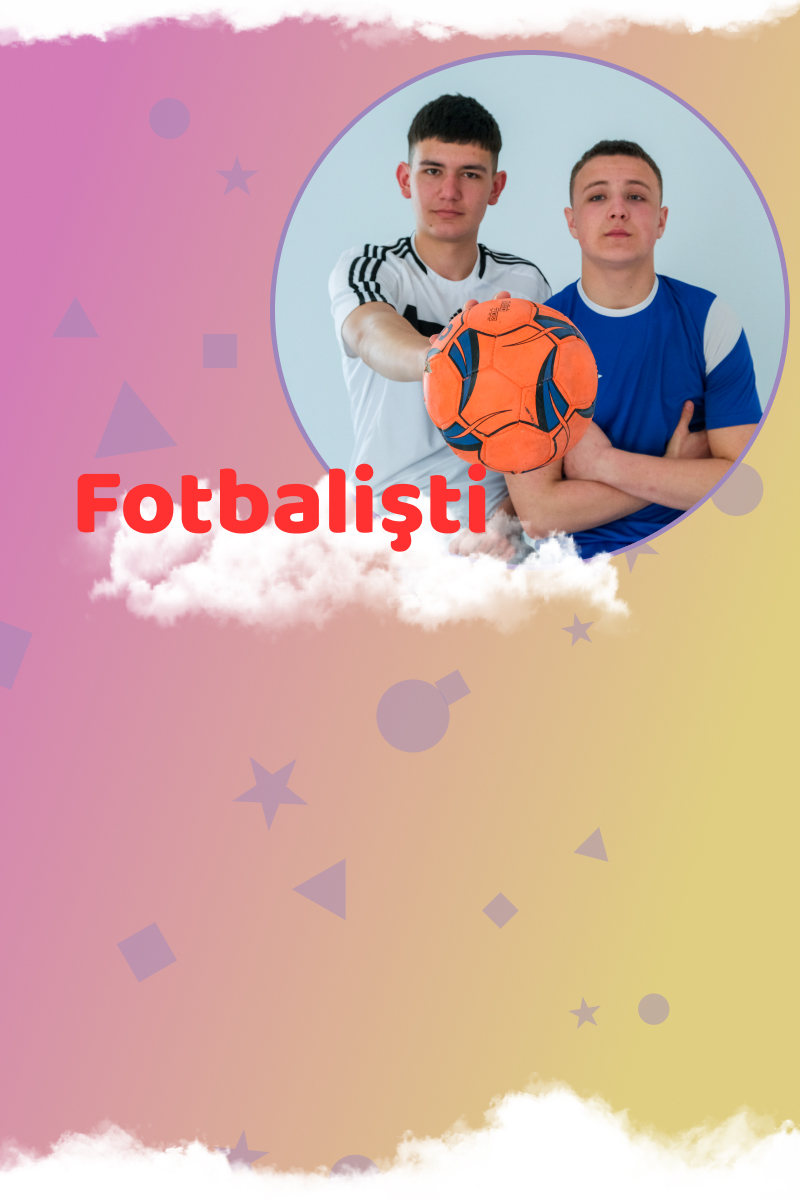
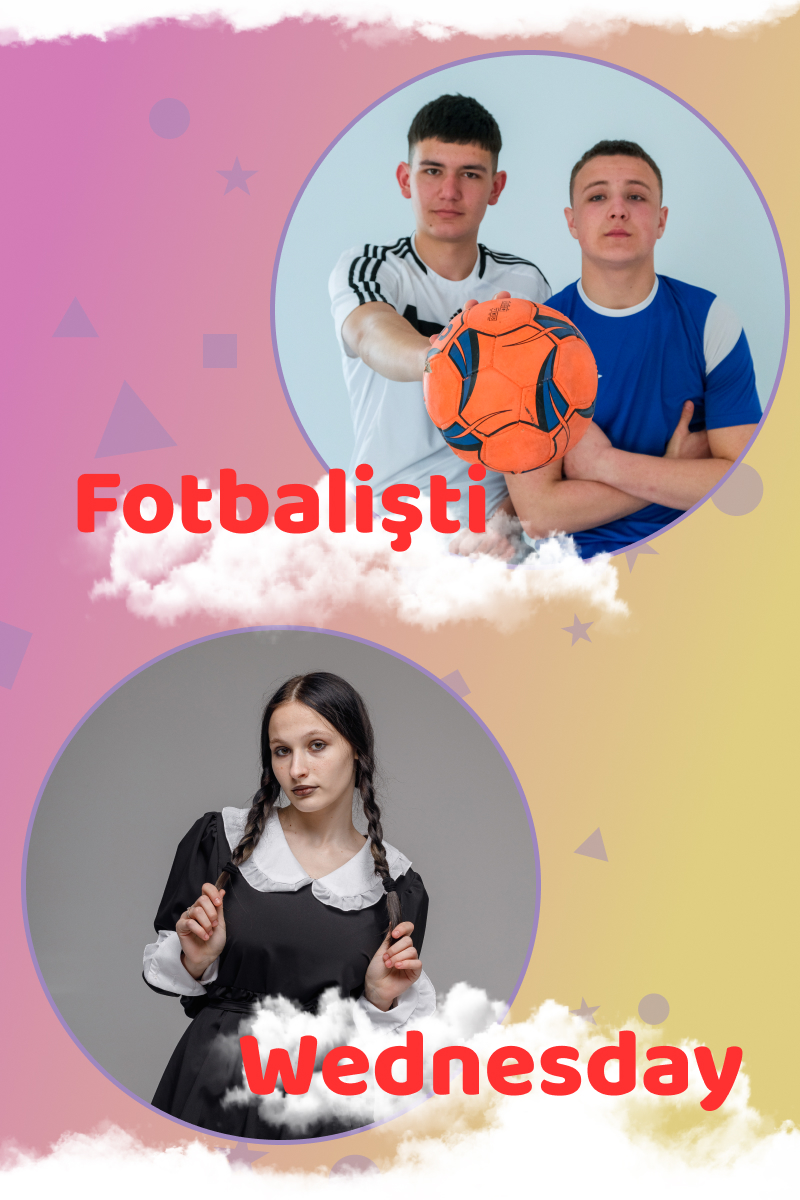
add wednesday

Changed region(s): [[0.0, 0.4933, 0.9688, 0.9558]]

diff --git a/index.html b/index.html
@@ -156,6 +156,11 @@
         <img src="src/images/catalog/13.jpg" alt="img">
     </picture>
     <picture>
+        <source srcset="src/images/catalog/14.png" media="(min-width:650px)" type="image/png">
+        <source srcset="src/images/catalog/14.jpg" media="(max-width:649.99px)" type="image/png">
+        <img src="src/images/catalog/14.jpg" alt="img">
+    </picture>
+    <picture>
         <source srcset="src/images/catalog/end.png" media="(min-width:650px)" type="image/png">
         <source srcset="src/images/catalog/end.jpg" media="(max-width:649.99px)" type="image/png">
         <img src="src/images/catalog/end.jpg" alt="img">
